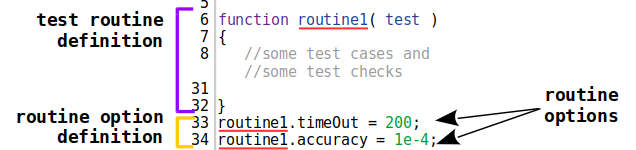
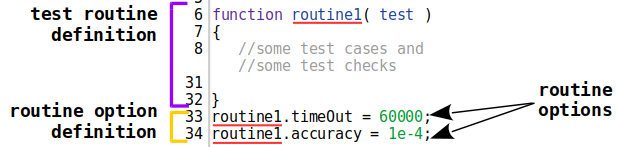
Correct TestOption

Changed region(s): [[0.0, 0.517, 1.0, 1.0], [0.0308, 0.0, 0.7083, 0.4082], [0.3695, 0.2993, 0.7083, 0.517]]

diff --git a/doc/version.ukr/concept/TestOption.md b/doc/version.ukr/concept/TestOption.md
@@ -23,7 +23,7 @@ tst path/to/dir verbosity:6 silencing:1
 
 # Опція тест сюіта
 
-Параметр для керування процесом тестування, який вказується в коді визначенні тест сюіта. Такі опції переписують значення за замовучуванням і в свою чергу можуть бути переписані опціями запуску.
+Параметр для керування процесом тестування, який вказується в коді визначення тест сюіта. Такі опції переписують значення за замовучуванням і, в свою чергу, можуть бути переписані опціями запуску.
 
 Формулювання опцій запуску і опцій тест сюіта однакові. Опції тест сюіта мають нижчий пріоритет ніж опції запуску. Тому, якщо тест сюіт і команда запуску мають однакову опцію, то утиліта використовує опцію запуску й ігнорує опції тест сюіта.
 
@@ -43,9 +43,13 @@ tst path/to/dir verbosity:3
 
 # Опція тест рутини
 
-Параметр для керування процесом тестування задані в окремій тест рутині.
+Параметр для керування процесом тестування заданий в окремій тест рутині.
 
-Для більш точного налаштування процесу тестування використовуються опції тест рутин. Опції тест рутини мають вищий пріоритет ніж опції тест сюіта і опції запуска.
+Опції тест рутин використовуються для більш точного налаштування процесу тестування. 
+
+Якщо тест рутина не має явно вказаних тест опцій, то тоді вона використовує опції встановлені за замовчуванням. Опції за замовчуванням можуть бути переписані опціями тест сюіта або опціями запуску.
+
+Опції тест рутини, що вказані явно, мають вищий пріоритет ніж опції тест сюіта і опції запуску. Якщо опції тест рутини вказані явно, то їх можна змінити лише відкорегувавши файл. 
 
 <!-- kos : adjust -->
 <!-- Зміна значень в тест рутині можлива тільки через зміну значень в файлі. -->
@@ -53,6 +57,8 @@ tst path/to/dir verbosity:3
 ![test.routine.options.png](../../images/test.routine.options.png)
 
 На приведеному рисунку показана рутина `routine1`. Після визначення тест рутини в рядках 6-32, в рядках 33-34 указуються опції тест рутини: `timeOut` i `accuracy`. Опція тест рутини вказується через присвоєння значень полям тестової рутини `routine1`.
+
+В указаній рутині опція `timeOut` має значення 60000мс, тобто, одну хвилину. Розробник, при створенні тесту встановив, що 5000мс, встановлених за замовчуванням, недостатньо. Одночасно з цим, використання опції тест сюіту збільшить час виконання кожної тест рутини, що неприпустимо. Тому, для індивідуального налаштування рутини було встановлено опцію `timeOut`.
 
 Застосування команди з опцією `accuracy` або `routineTimeOut` не вплине на роботу тестової рутини `routine1` так, як опції рутини мають вищий пріорітет.
 

diff --git a/doc/version.ukr/README.md b/doc/version.ukr/README.md
@@ -59,7 +59,7 @@
 <details><summary><a href="./concept/TestOption.md#Опція-тест-сюіта">
       Опція тест сюіта
   </a></summary>
-  Параметр для керування процесом тестування, який вказується в коді визначенні тест сюіта. Такі опції переписують значення за замовучуванням і в свою чергу можуть бути переписані опціями запуску.
+  Параметр для керування процесом тестування, який вказується в коді визначення тест сюіта. Такі опції переписують значення за замовучуванням і, в свою чергу, можуть бути переписані опціями запуску.
 </details>
 <details><summary><a href="./concept/TestOption.md#Опція-тест-рутини">
       Опція тест рутини
